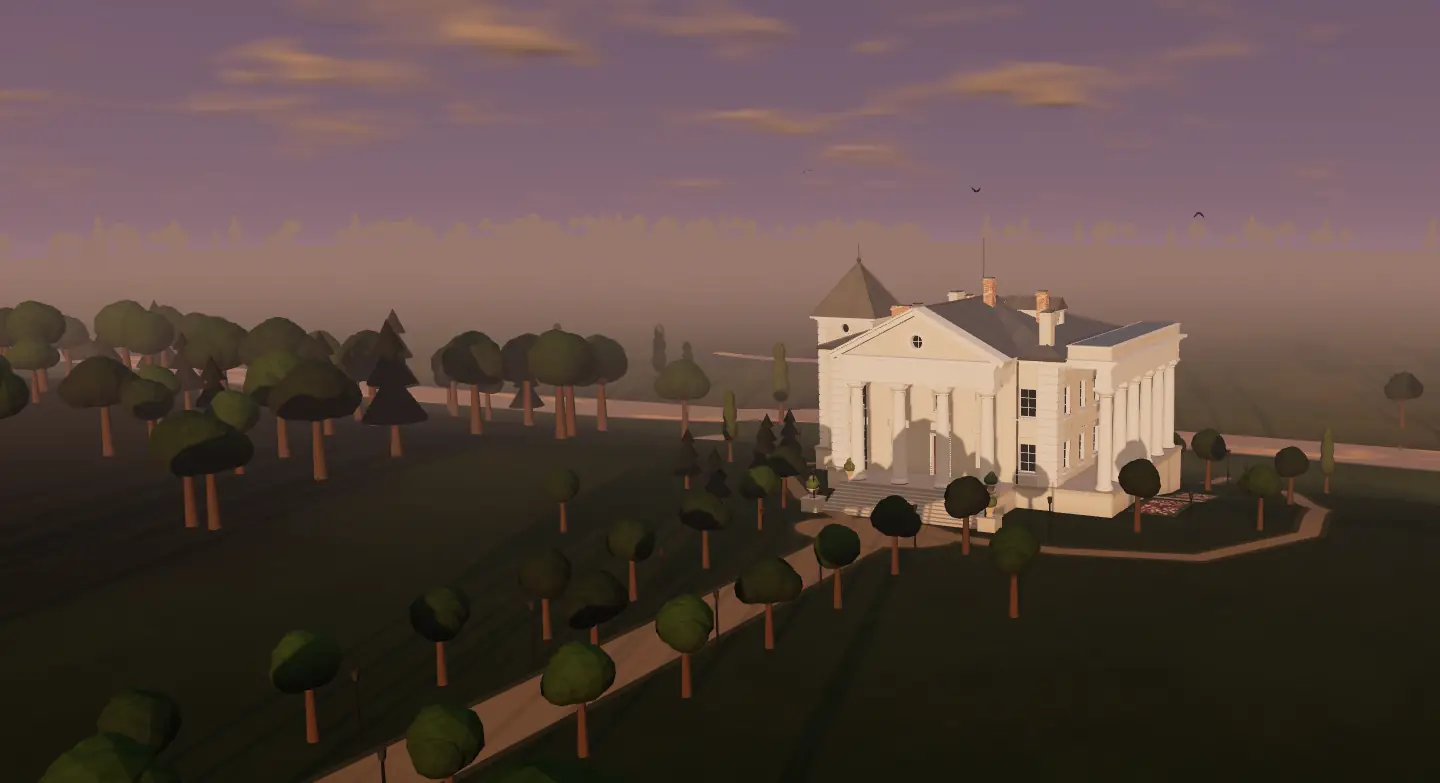
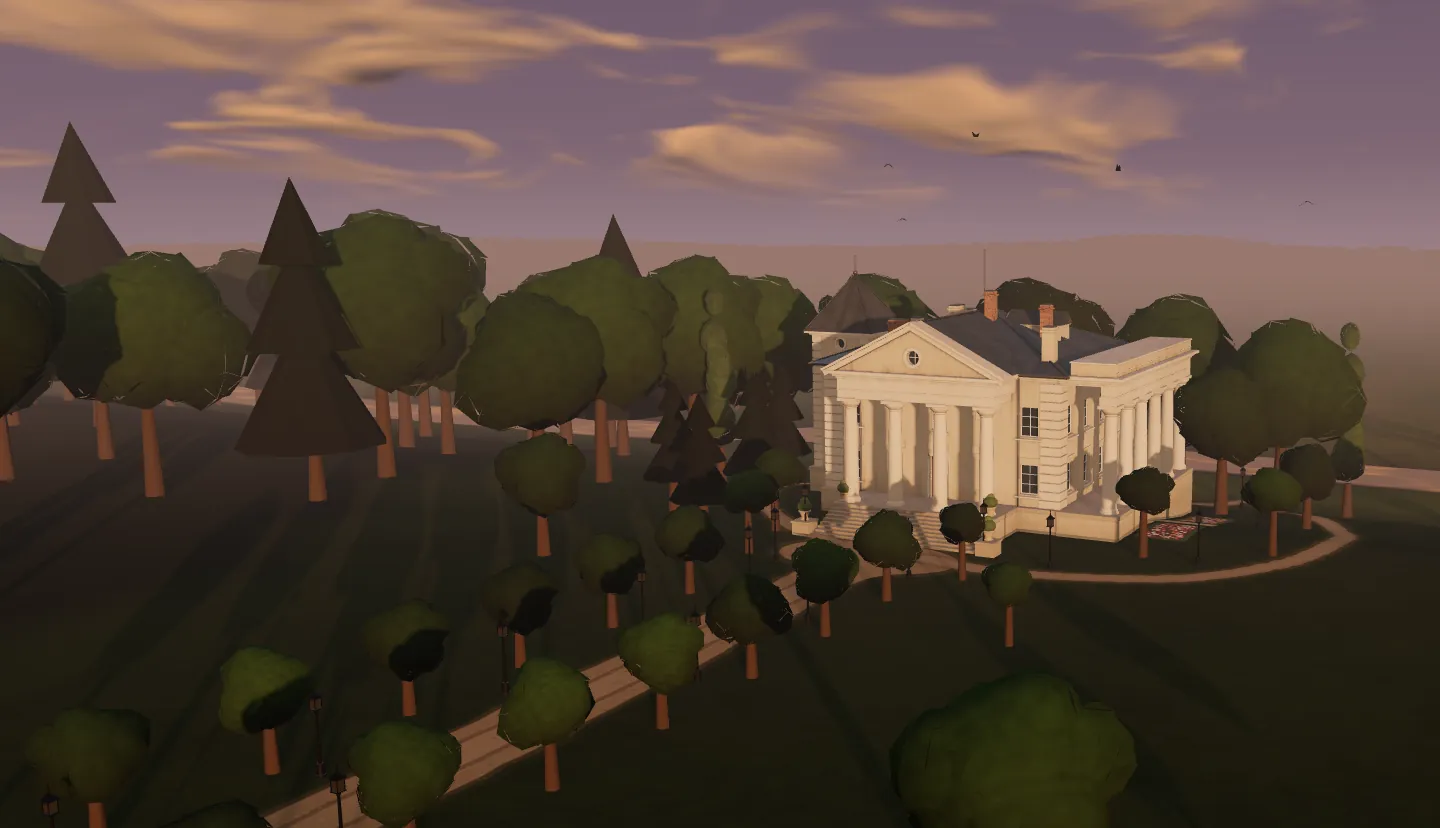
Обкладинка: «Бібліотека» серед старого парку, як на світлинах 1914 і 1937 років
- старі дерева парку у 2–2,5 раза вищі, крони за будинком і над дахом; відкритий газон перед камерою лишається вільним
- стовбури коротші й тонші відносно крони — менше «льодяників»
- пізня поліська осінь: вохра, іржаво-бурий, вицвіла олива замість яскраво-помаранчевого
- тиньк будинку теплий сіро-вохристий замість нового білого, шибки ловлять небо, м'яка тінь біля основи
- нові постери день / вечір / ніч під оновлену сцену

Claude-Session: https://claude.ai/code/session_015E5VkhKKERkWtXctkqCkmF

diff --git a/hero-worobin.js b/hero-worobin.js
@@ -271,7 +271,7 @@ function attach(api, o){
   var conM = new T.MeshStandardMaterial({roughness: .95, flatShading: true}); windy(conM, .025);
   var trunkM = new T.MeshStandardMaterial({color: '#4a3826', roughness: 1});
   var list = {blob: [], cone: [], pop: []};
-  function add(kind, x, z, s){ list[kind].push([x, H(x, z), z, s]); }
+  function add(kind, x, z, s, old){ list[kind].push([x, H(x, z), z, s, old || 0]); }
   /* the forest */
   var step = lite ? 9 : 6, rnd = (function(seed){ return function(){ seed = (seed*16807) % 2147483647; return (seed - 1)/2147483646; }; })(1918);
   for (var fx = CX - SIZE/2 + 4; fx < CX + SIZE/2 - 4; fx += step) for (var fz = -SIZE/2 + 4; fz < SIZE/2 - 4; fz += step){
@@ -280,25 +280,32 @@ function attach(api, o){
     if (rnd() > thin) continue;
     var x2 = fx + (rnd() - .5)*step*.9, z2 = fz + (rnd() - .5)*step*.9, f = forest(x2, z2);
     if (rnd() > f) continue;
-    var big = 1/Math.sqrt(thin);
-    add(rnd() < (inPark(x2, z2) ? .18 : .3) ? 'cone' : 'blob', x2, z2, (1.7 + rnd()*1.2)*Math.min(1.8, .75 + .25*big));
+    var big = 1/Math.sqrt(thin), pk = inPark(x2, z2), rh = Math.hypot(x2 - GX, z2 - GZ);
+    /* the old park: limes, oaks and maples 20–25 m high, crowns standing over the roof as in the photographs of 1914 and 1937 */
+    var ddx = x2 - GX, ddz = z2 - GZ, lawnSide = (ddx < 0 && ddz > -30 && rh < 150) || (ddz > 0 && rh < 120);   // the open lawn the camera looks across
+    var oldK = pk && rh < 200 && !lawnSide ? 2.15 + .5*rnd() : pk && !lawnSide ? 1.5 : 1;
+    if (oldK > 2 && rnd() < .3) continue;                                            // bigger crowns, a few fewer of them
+    add(rnd() < (pk ? .18 : .3) ? 'cone' : 'blob', x2, z2, (1.7 + rnd()*1.2)*Math.min(1.8, .75 + .25*big)*oldK, pk ? 1 : 0);
   }
   /* hedgerows and lone trees on the fields and meadows */
   for (var k2 = 0; k2 < (lite ? 40 : 80); k2++){ var lx = -40 - rnd()*90, lz = Math.floor((rnd()*360 - 180)/15)*15; if (forest(lx, lz) > .2) continue; add('blob', lx, lz, 1.2 + rnd()*.8); }
   for (k2 = 0; k2 < 26; k2++){ var mz = rnd()*300 - 150, mx = riverX(mz) + (rnd() < .5 ? -1 : 1)*(8 + rnd()*5); if (Math.hypot(mx - GX, mz - GZ) < 30) continue; add(rnd() < .5 ? 'pop' : 'blob', mx, mz, 1.3 + rnd()*.6); }   // willows and poplars along the banks
   /* the park: an avenue of limes along the drive, groups of white poplars, spruces behind the tower, chestnuts by the ponds */
-  for (var ax = -68; ax <= -24; ax += 6.5){ add('blob', ax, -5.2, 1.25); add('blob', ax + 3.2, 5.2, 1.25); }
-  [[-20.5, -7], [-20.5, 7.2], [-15, -8.6], [-11.5, 15], [13, 10.5], [9.5, 14.6], [14.5, 4], [-26, -18], [-30, 14], [-8, 22], [6, 21.5]].forEach(function(q){ add('blob', q[0], q[1], 1.15 + rnd()*.2); });
-  [[5, -15.5], [8.5, -14], [11.5, -11.8], [19, -9], [21, 22], [-3, -21]].forEach(function(q){ add('pop', q[0], q[1], 1.15); });
-  [[-1.5, -16.5], [-5.5, -16], [-9.5, -13.8], [-13, -18], [-18, -12]].forEach(function(q){ add('cone', q[0], q[1], 1.05); });
+  for (var ax = -68; ax <= -24; ax += 6.5){ add('blob', ax, -5.2, 1.5, 1); add('blob', ax + 3.2, 5.2, 1.5, 1); }
+  [[-20.5, -7, 1.3], [-20.5, 7.2, 1.15], [-15, -8.6, 1.5], [-11.5, 15, 1.4], [13, 10.5, 3.6], [9.5, 14.6, 3.2], [14.5, 4, 3.4], [-26, -18, 2.2], [-30, 14, 1.1], [-8, 22, 1.5], [6, 21.5, 1.8]].forEach(function(q){ add('blob', q[0], q[1], q[2] + rnd()*.15, q[2] > 1.6 ? 1 : 0); });   // the ones between the camera and the house stay small
+  /* old trees behind the house, on the edge of the terrace and north of the tower: in every photograph the roof stands against crowns, not sky */
+  [[20, -4, 5.6], [22, 7, 5.2], [19, 17, 4.8], [2, -27, 5.4], [10, -25, 5.0], [17, -18, 5.4], [-7, -29, 5.2], [-16, -27, 4.6]].forEach(function(q){ add('blob', q[0], q[1], q[2] + rnd()*.2, 1); });
+  [[5, -15.5], [8.5, -14], [11.5, -11.8], [19, -9], [21, 22], [-3, -21]].forEach(function(q){ add('pop', q[0], q[1], 2.3 + rnd()*.4, 1); });   // white poplars over the roof, as in Orda's drawing
+  [[-1.5, -16.5], [-5.5, -16], [-9.5, -13.8], [-13, -18], [-18, -12]].forEach(function(q){ add('cone', q[0], q[1], 2.0 + rnd()*.4); });
   function instance(kind, geo, mat, colors, trunkH, crownY, cast){
     var L = list[kind]; if (!L.length) return;
     var im = new T.InstancedMesh(geo, mat, L.length), tr = new T.InstancedMesh(new T.CylinderGeometry(.12, .2, 1, 6), trunkM, L.length), m4 = new T.Matrix4(), q = new T.Quaternion(), sv = new T.Vector3(), pv = new T.Vector3(), e = new T.Euler();
     L.forEach(function(t, i){
       var s = t[3]; q.setFromEuler(e.set(0, hash(t[0], t[2])*6.28, 0));
-      m4.compose(pv.set(t[0], t[1] + trunkH*s + crownY*s, t[2]), q, sv.set(s, s*(kind === 'blob' ? .9 : 1), s)); im.setMatrixAt(i, m4);
+      var oT = t[4] ? .62 : 1, oY = t[4] ? 1.18 : 1, tk = Math.min(1, 1.5/Math.sqrt(s));
+      m4.compose(pv.set(t[0], t[1] + trunkH*s*oT + crownY*s*oY, t[2]), q, sv.set(s, s*(kind === 'blob' ? .9 : 1)*oY, s)); im.setMatrixAt(i, m4);
       im.setColorAt(i, colors[Math.floor(hash(t[2], t[0])*colors.length)]);
-      m4.compose(pv.set(t[0], t[1] + trunkH*s/2, t[2]), q, sv.set(s, trunkH*s + .2, s)); tr.setMatrixAt(i, m4);
+      m4.compose(pv.set(t[0], t[1] + trunkH*s*oT/2 + .4, t[2]), q, sv.set(s*tk, trunkH*s*oT + 1, s*tk)); tr.setMatrixAt(i, m4);
     });
     im.castShadow = tr.castShadow = cast; im.receiveShadow = true; scene.add(im); scene.add(tr);
     if (kind !== 'cone') CROWNS.push({im: im, base: im.instanceColor.array.slice(), L: L});
@@ -734,12 +741,12 @@ function attach(api, o){
   /* ── seasons, picked by hand in the hero (summer by default): autumn turns the park to gold and rust and sends leaves
      drifting down; winter strips the broadleaves, lays snow on the land, the roofs and the crowns, and freezes the water ── */
   var SEASON = 'summer', SW = 0, SA = 0, ctT = 1;
-  var AUTC = ['#c8862e', '#e0a93a', '#b4542a', '#e8c04a', '#9c3c22', '#d07a28', '#c9a23a', '#8f8a38'].map(lin), BARE = [lin('#a0968a'), lin('#928879'), lin('#aaa196')];
+  var AUTC = ['#a7803a', '#b8953f', '#8c5a2c', '#9d7a33', '#7a4f2b', '#a06a30', '#8f8640', '#6f6b3a', '#b09a52'].map(lin), BARE = [lin('#a0968a'), lin('#928879'), lin('#aaa196')];
   function crownTarget(c, k){
     var a = c.base.slice(), L = c.L, col = new T.Color();
     if (k === 'summer') return a;
     for (var i = 0; i < L.length; i++){ var h = hash(L[i][0]*1.7, L[i][2]*2.3);
-      if (k === 'autumn'){ col.copy(AUTC[Math.floor(h*AUTC.length)]); if (hash(L[i][2], L[i][0]*3.1) < .16) col.lerp(new T.Color(a[i*3], a[i*3 + 1], a[i*3 + 2]), .65); }   // a few still green
+      if (k === 'autumn'){ col.copy(AUTC[Math.floor(h*AUTC.length)]); if (hash(L[i][2], L[i][0]*3.1) < .22) col.lerp(new T.Color(a[i*3], a[i*3 + 1], a[i*3 + 2]), .55); }   // a few still green
       else col.copy(BARE[Math.floor(h*BARE.length)]);
       a[i*3] = col.r; a[i*3 + 1] = col.g; a[i*3 + 2] = col.b; }
     return a;
@@ -889,6 +896,29 @@ function attach(api, o){
   setSky(); setInterval(setSky, 60000); patchLamps();
   wxApply(); wxFetch(); setInterval(function(){ wxFetch(true); }, 15*60000);
   api.heroWeather = function(k){ wxPick = k; wxApply(); for (var q in WX) WXc[q] = WX[q]; WXc.wet = WX.rain > .05 ? 1 : 0; setSky(); }; api.__wx = function(){ return {WX: WX, WXc: WXc, live: wxLive}; };
+
+  /* ── the house as the photographs of 1914 and 1937 show it: lime plaster gone grey-ochre with the years, not new white;
+     the panes take a little of the sky instead of reading as black holes; a soft shadow where the walls meet the ground ── */
+  (function(){
+    var TINT = {wall: [.86, .82, .73], blind: [.86, .82, .73], WE_masonry: [.86, .82, .73], trim: [.9, .87, .79], col: [.9, .87, .79],
+                plinth: [.8, .76, .67], sash: [.88, .86, .8], step: [.9, .88, .82]}, seen = [];
+    model.traverse(function(ob){ if (!ob.isMesh) return;
+      (Array.isArray(ob.material) ? ob.material : [ob.material]).forEach(function(m){
+        if (!m || seen.indexOf(m) > -1) return; seen.push(m);
+        var k = TINT[m.name]; if (k && m.color) m.color.multiply(new T.Color(k[0], k[1], k[2]));
+        if (m.name === 'glass'){ m.color.set('#3e4a53'); m.roughness = .08; m.metalness = .3; }
+      }); });
+    var c = document.createElement('canvas'); c.width = c.height = 256; var g = c.getContext('2d');
+    var X0 = -24, Z0 = -22, SZ = 44, px = function(v, o0){ return (v - o0)/SZ*256; };
+    g.shadowColor = 'rgba(0,0,0,1)'; g.shadowBlur = 14; g.shadowOffsetX = 1000; g.fillStyle = '#000';   // only the blurred shadow lands on the canvas
+    [[-8.9, 8.9, -8.9, 8.9], [-12.7, -8.5, -6, 6], [-9, 9, 8.5, 12.6]].forEach(function(r){
+      g.fillRect(px(r[0], X0) - 1000, px(r[2], Z0), px(r[1], X0) - px(r[0], X0), px(r[3], Z0) - px(r[2], Z0)); });
+    var tex = new T.CanvasTexture(c);
+    var geo = new T.PlaneGeometry(SZ, SZ, 44, 44); geo.rotateX(-Math.PI/2); geo.translate(X0 + SZ/2, 0, Z0 + SZ/2);
+    var gp = geo.attributes.position; for (var i = 0; i < gp.count; i++) gp.setY(i, H(gp.getX(i), gp.getZ(i)) + .06);
+    var ao = new T.Mesh(geo, new T.MeshBasicMaterial({map: tex, color: '#1a140c', transparent: true, opacity: .5, depthWrite: false, polygonOffset: true, polygonOffsetFactor: -2}));
+    ao.renderOrder = 1; scene.add(ao);
+  })();
 
   /* ── frame the house on the right, so the copy on the left has open sky and land behind it ── */
   var shift = o.shift || 0;

diff --git a/index.html b/index.html
@@ -351,7 +351,7 @@ a, button, [role="button"], input, select, textarea,
                          aria: '3D-модель церкви Різдва Богородиці. Потягніть убік, щоб обернути.', opts: {view: [-50, 14, 46], targetY: 13.2, fit: innerWidth < 980 ? 1.04 : 1.0}},
                 worobin: {js: 'worobin-3d.js', g: 'Worobin3D', poster: 'worobin-3d-poster.webp', href: 'worobin-3d.html', title: '«Бібліотека» Плятерів у Воробині',
                          sub: 'павільйон, що не зберігся · 3D за світлинами 1914 і 1937 років', alt: 'Павільйон «Бібліотека» у Воробині — 3D-реконструкція',
-                         aria: '3D-реконструкція павільйону «Бібліотека» у Воробині серед краєвиду над Горинню. Потягніть убік, щоб обернути.', land: 'hero-worobin.js', landPoster: (function(){ var h = +new Date().toLocaleString('en-GB', {timeZone: 'Europe/Kyiv', hour: '2-digit', hour12: false}); return 'worobin-land-' + (h < 6 || h >= 20 ? 'night' : h < 8 || h >= 17 ? 'eve' : 'day') + '.webp'; })(),
+                         aria: '3D-реконструкція павільйону «Бібліотека» у Воробині серед краєвиду над Горинню. Потягніть убік, щоб обернути.', land: 'hero-worobin.js', landPoster: (function(){ var h = +new Date().toLocaleString('en-GB', {timeZone: 'Europe/Kyiv', hour: '2-digit', hour12: false}); return 'worobin-land-' + (h < 6 || h >= 20 ? 'night' : h < 8 || h >= 17 ? 'eve' : 'day') + '.webp?v=2'; })(),
                          opts: {glb: innerWidth < 980 || (navigator.deviceMemory || 8) < 4 ? 'worobin-1k.glb?v=20261019c' : 'worobin-2k.glb?v=20261019c', view: [-46, 8, 22], targetY: 6.5, fit: innerWidth < 980 ? 1.3 : 1.85, turntable: false, floodK: .6}},
                 mykolai: {js: 'mykolai-3d.js', g: 'Mykolai3D', poster: 'mykolai-3d-poster.webp', href: 'mykolai-3d.html', title: 'Свято-Миколаївська церква',
                          sub: "дерев'яна, збудована 1872 коштом парафіян", alt: 'Свято-Миколаївська церква в Дубровиці — 3D-модель',
@@ -1697,11 +1697,11 @@ g.ULB={open:open,close:close,nav:nav,
   function idle(f){ (window.requestIdleCallback || function(g){ setTimeout(g, 250); })(f, { timeout: 1200 }); }
   function mount3d(){
     var m = window.__hx3d; if (!m){ st.classList.add('nogl'); return; }
-    var sc = document.createElement('script'); sc.src = m.js + '?v=20261019e'; sc.async = true;
+    var sc = document.createElement('script'); sc.src = m.js + '?v=20261125a'; sc.async = true;
     sc.onerror = function(){ st.classList.add('nogl'); };
     sc.onload = function(){
       var G = window[m.g]; if (!G){ st.classList.add('nogl'); return; }
-      var land = m.land ? new Promise(function(res){ var ls = document.createElement('script'); ls.src = m.land + '?v=20261019e'; ls.async = true; ls.onload = res; ls.onerror = function(){ res(); }; document.head.appendChild(ls); }) : Promise.resolve();
+      var land = m.land ? new Promise(function(res){ var ls = document.createElement('script'); ls.src = m.land + '?v=20261125a'; ls.async = true; ls.onload = res; ls.onerror = function(){ res(); }; document.head.appendChild(ls); }) : Promise.resolve();
       var wide = function(){ return innerWidth > 980; };
       G.mount(cv, Object.assign({ zoom: false, touch: 'pan-y', pixelRatio: m.land ? (wide() ? 1.35 : 1.6) : 1.75, shadow: innerWidth < 700 ? 1024 : 2048, motes: !m.land, autoRotateSpeed: m.land ? .35 : .55,
         onStart: function(){ st.classList.add('touched'); },
